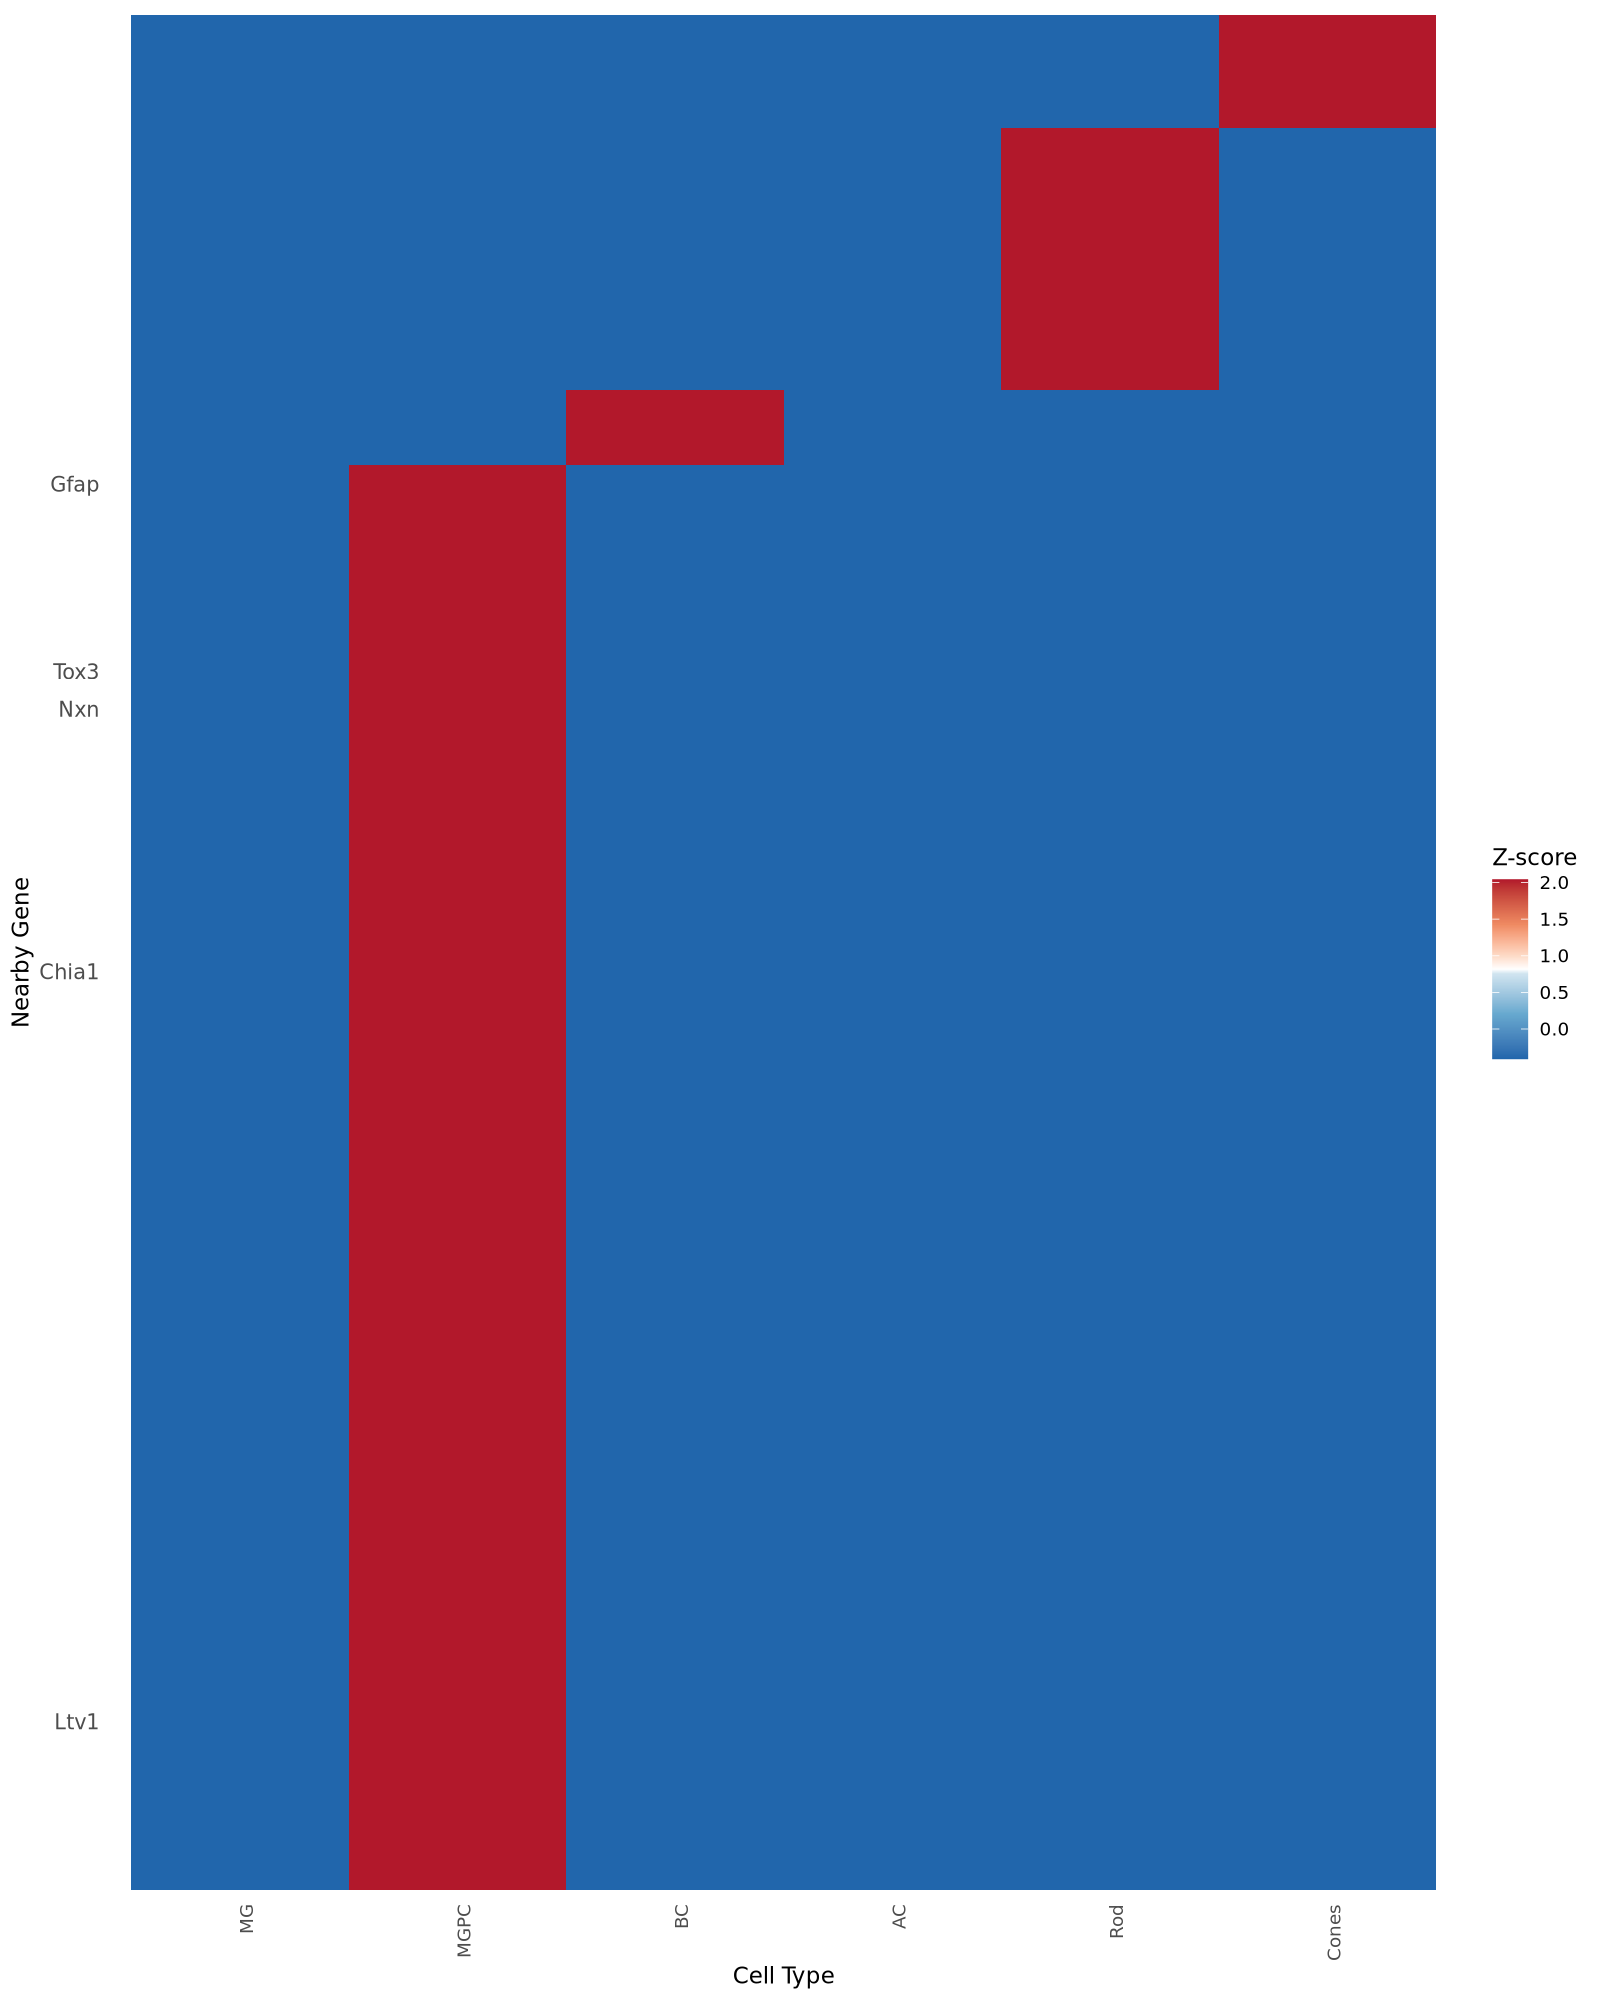
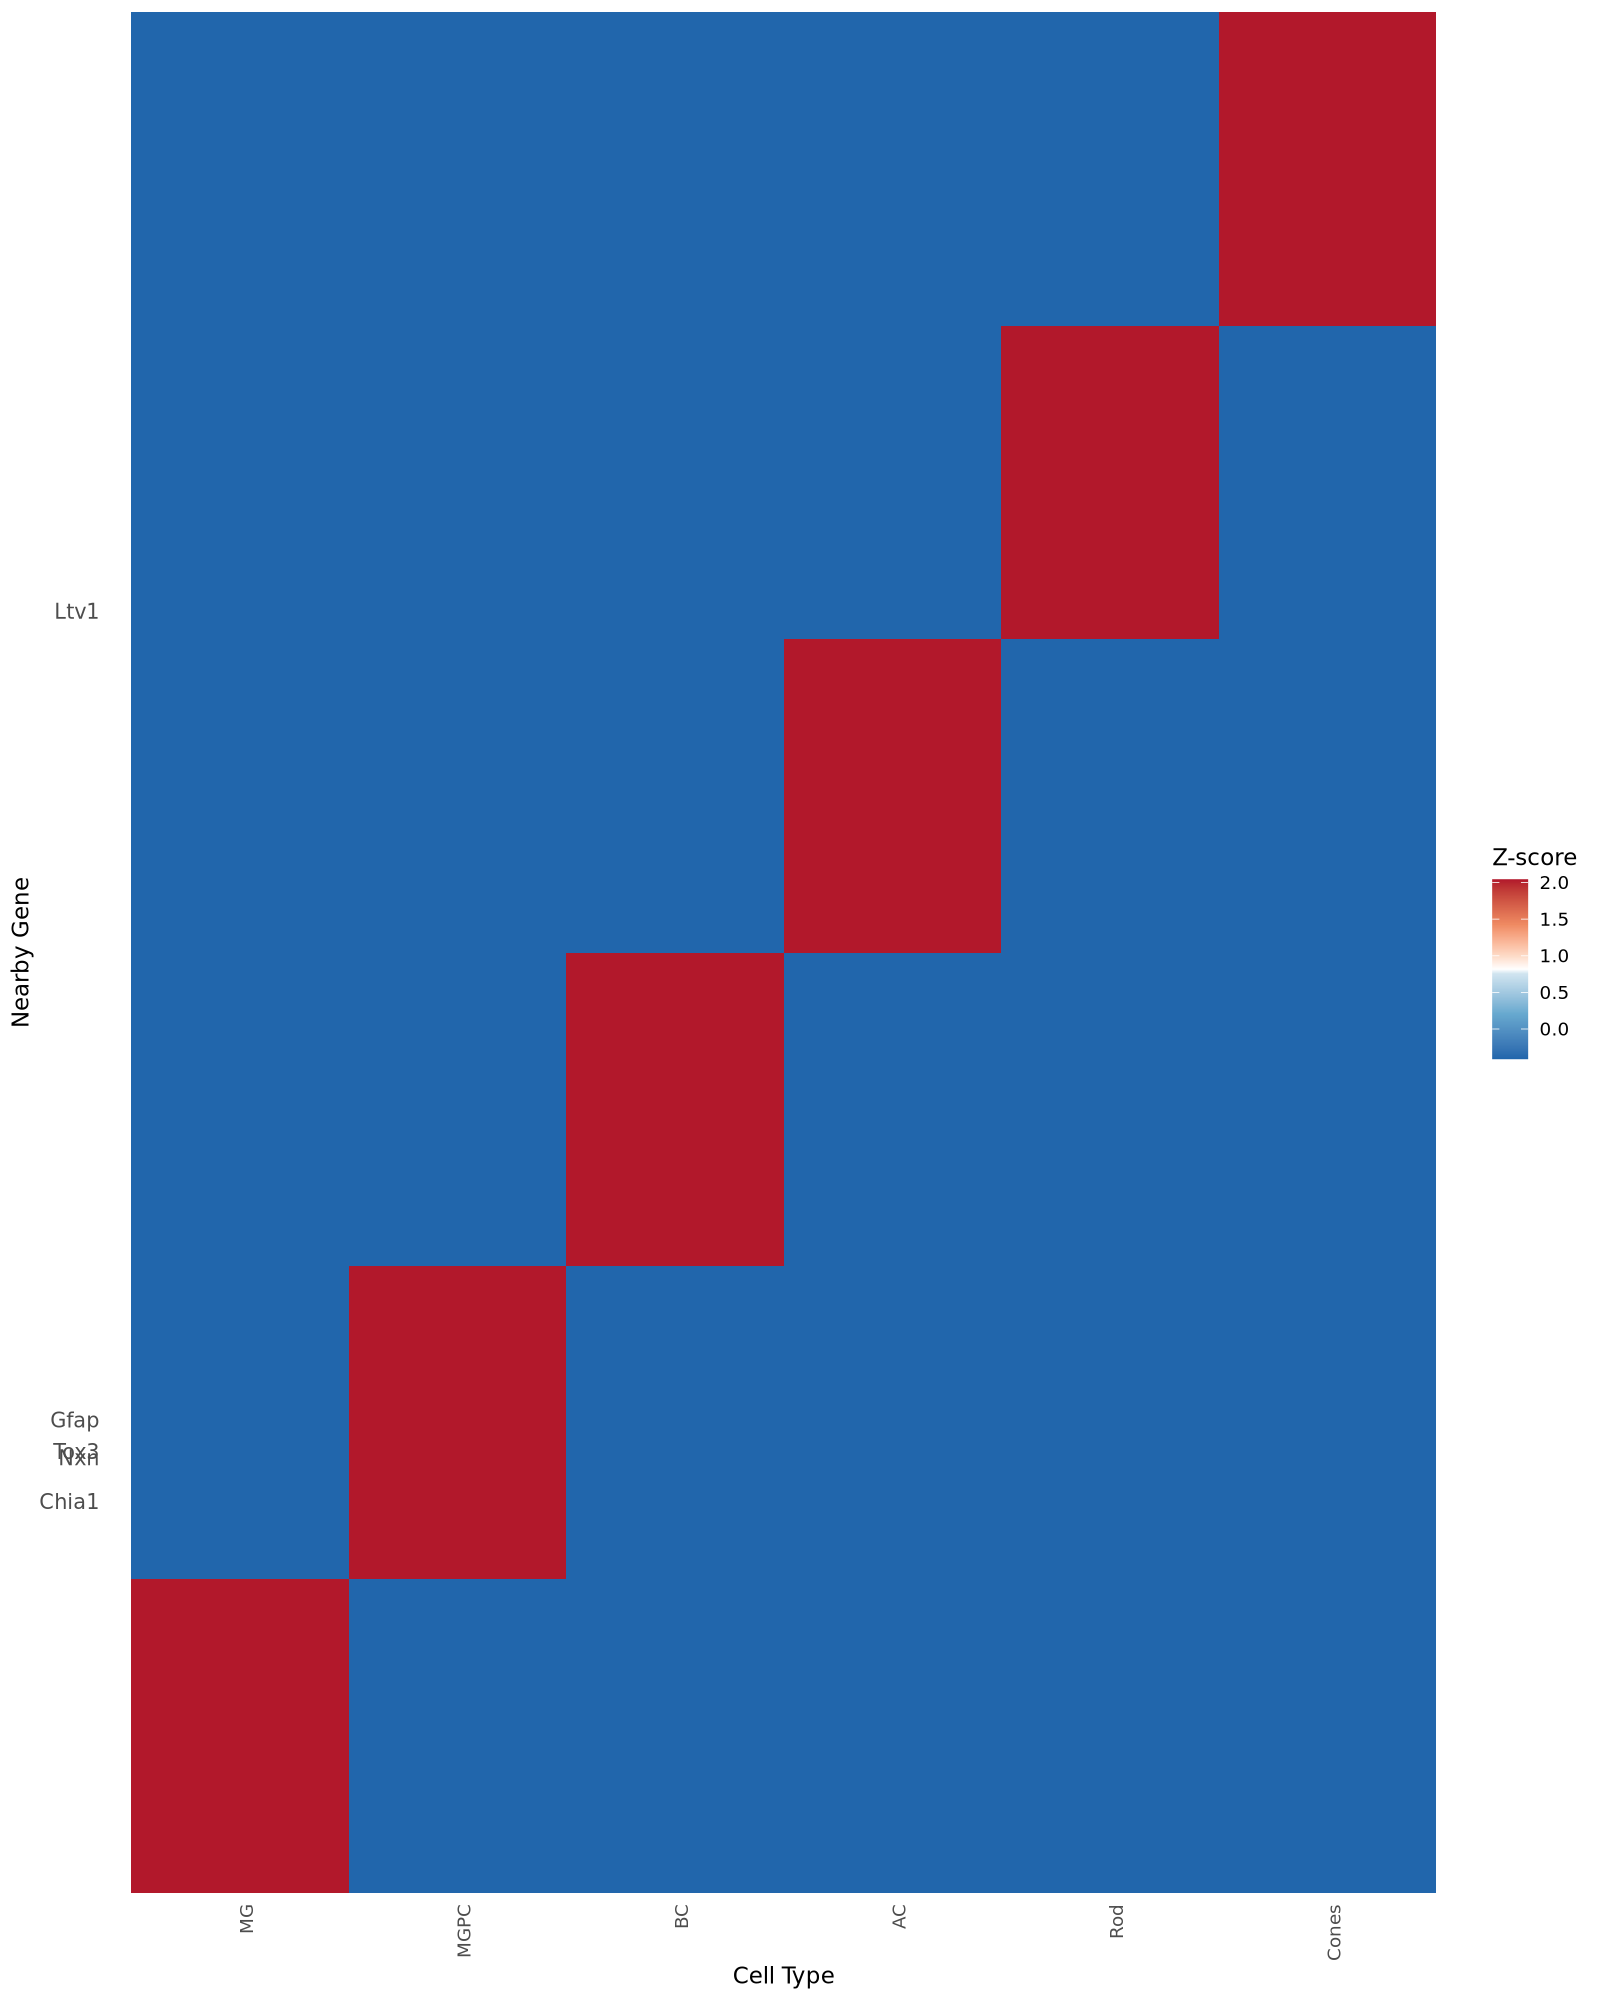
fix plotPeaks.R

diff --git a/README.md b/README.md
@@ -163,8 +163,7 @@ myObject.atac.markers <- FindAllMarkers(
 
 [Merged Ranked DiffPeaks](https://docs.google.com/spreadsheets/d/1WrM1nD6XbIRr8Eo9RFqT8Ba4bGvVSVx9u4QsQ7ihyxY/edit?usp=sharing)
 
-![](figures/TopPeaksNearbyheatmap.png?v=1)
-
+![](figures/TopPeaksNearbyheatmap.png?v=2)
 
 #  Subset MG/MGPC 
 
